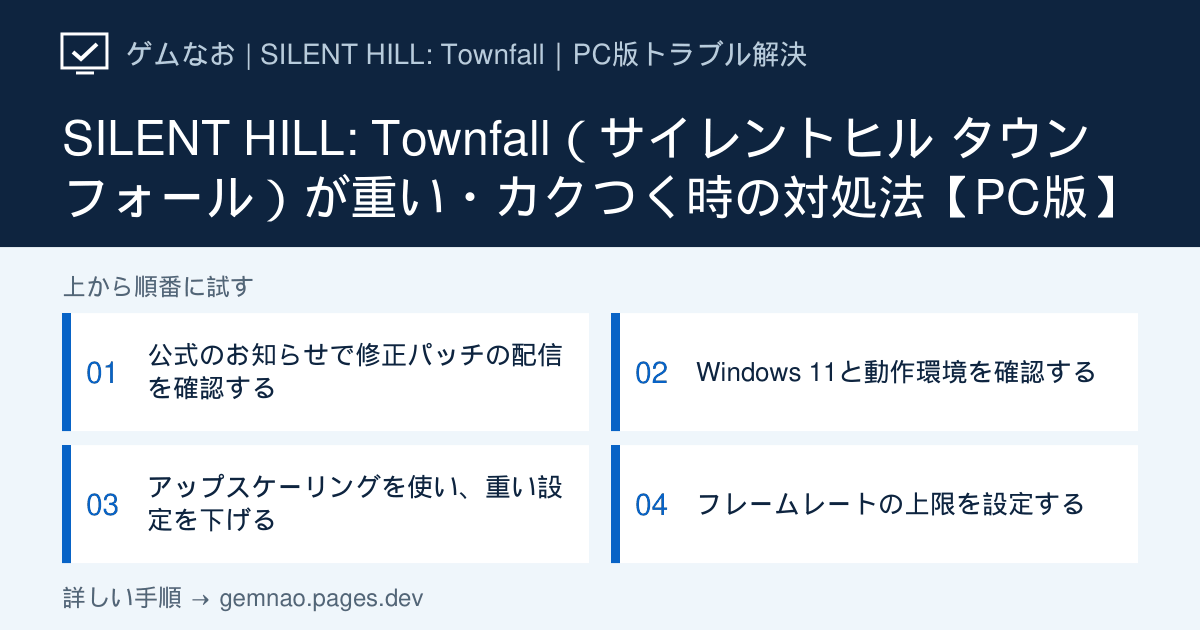
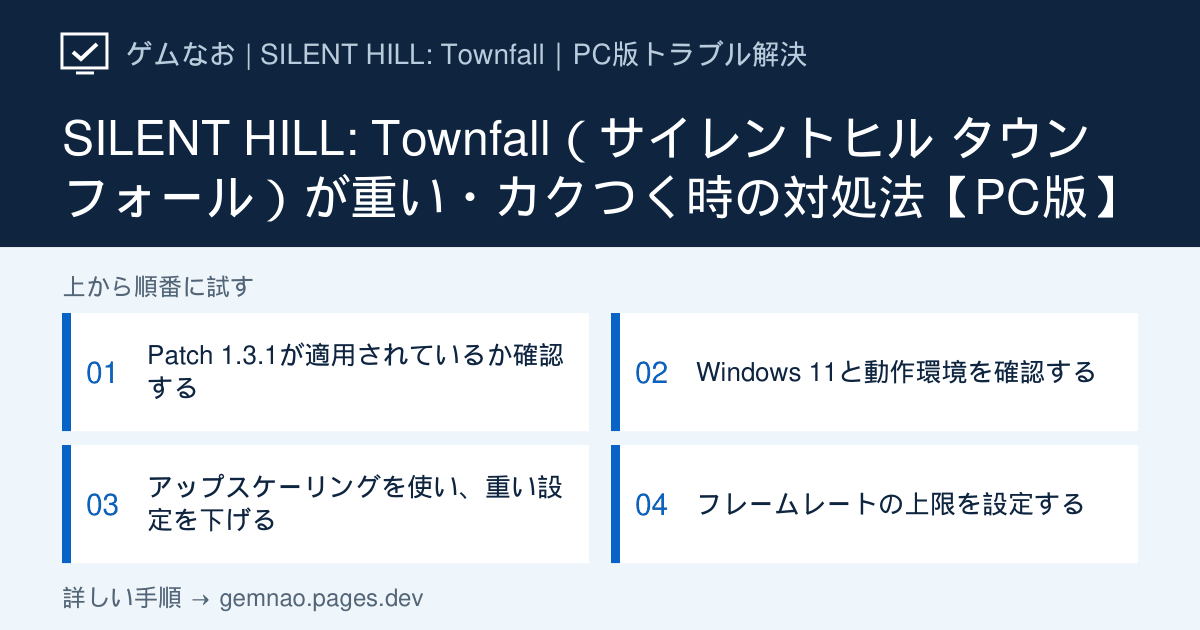
SILENT HILL: Townfallのカクつき記事のOGカードを再生成
Claude-Session: https://claude.ai/code/session_012qBvfLeXJKFbVbmjsB9psj

Changed region(s): [[0.1233, 0.5429, 0.4933, 0.6333]]

diff --git a/lib/og-image-manifest.ts b/lib/og-image-manifest.ts
@@ -103,7 +103,7 @@ export const ogImageManifest: Record<string, string> = {
   "/games/shin-sangoku-musou-2-remastered": "71d4a2b1",
   "/games/shin-sangoku-musou-2-remastered/not-launching": "de2a8227",
   "/games/silent-hill-townfall": "b094cb57",
-  "/games/silent-hill-townfall/stutter": "dde93ad5",
+  "/games/silent-hill-townfall/stutter": "fa190889",
   "/games/skyrim-special-edition": "07be4434",
   "/games/skyrim-special-edition/skse-after-update": "9f73941d",
   "/games/star-wars-zero-company": "86c17651",
